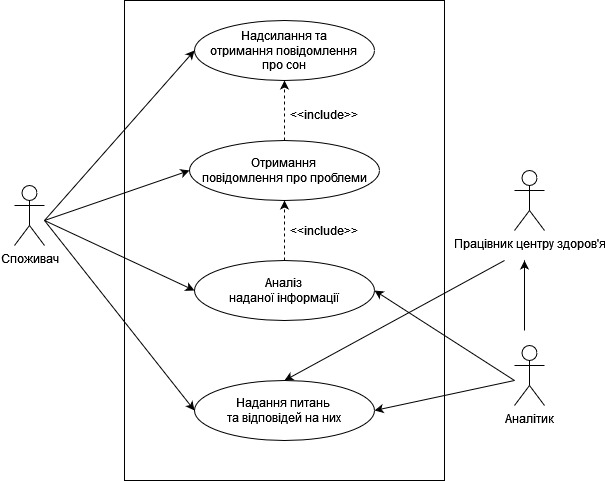
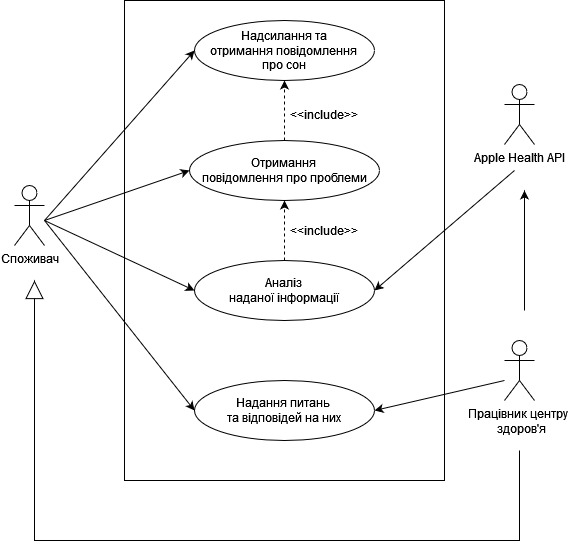
commit

diff --git a/1-SofwareRequirements/1.3-SoftwareUserRequirements/1.3.2-NarrativeStory/README.md b/1-SofwareRequirements/1.3-SoftwareUserRequirements/1.3.2-NarrativeStory/README.md
@@ -1,8 +1,8 @@
 ### Текст-розповідь користувача про свої вимоги
 1. Як споживач маю потребу у отриманні сну для забезпечення безпеки праці, дружби та створенню живопису
 2. Як споживач, я хочу контролювати свій сон
-3. Як аналітик персоналу, я хочу проводити аналіз здоров'я персоналу
-4. Як аналітик, я надаю результати моїх аналізів в центр здоров'я
+3. Як Apple Health, я хочу проводити аналіз здоров'я персоналу
+4. Як Apple Health, я надаю результати моїх аналізів в центр здоров'я
 5. Як споживач, при використанні застосунку, я хочу, надати данні про сон
 6. Як працівник центру здоров'я, я отримаю результати аналізу аналітика
 7. Як працівник центру здоров'я, я допоможу споживачу, щоб він міг забезпечити безпеку праці, дружби та створенню живопису 
